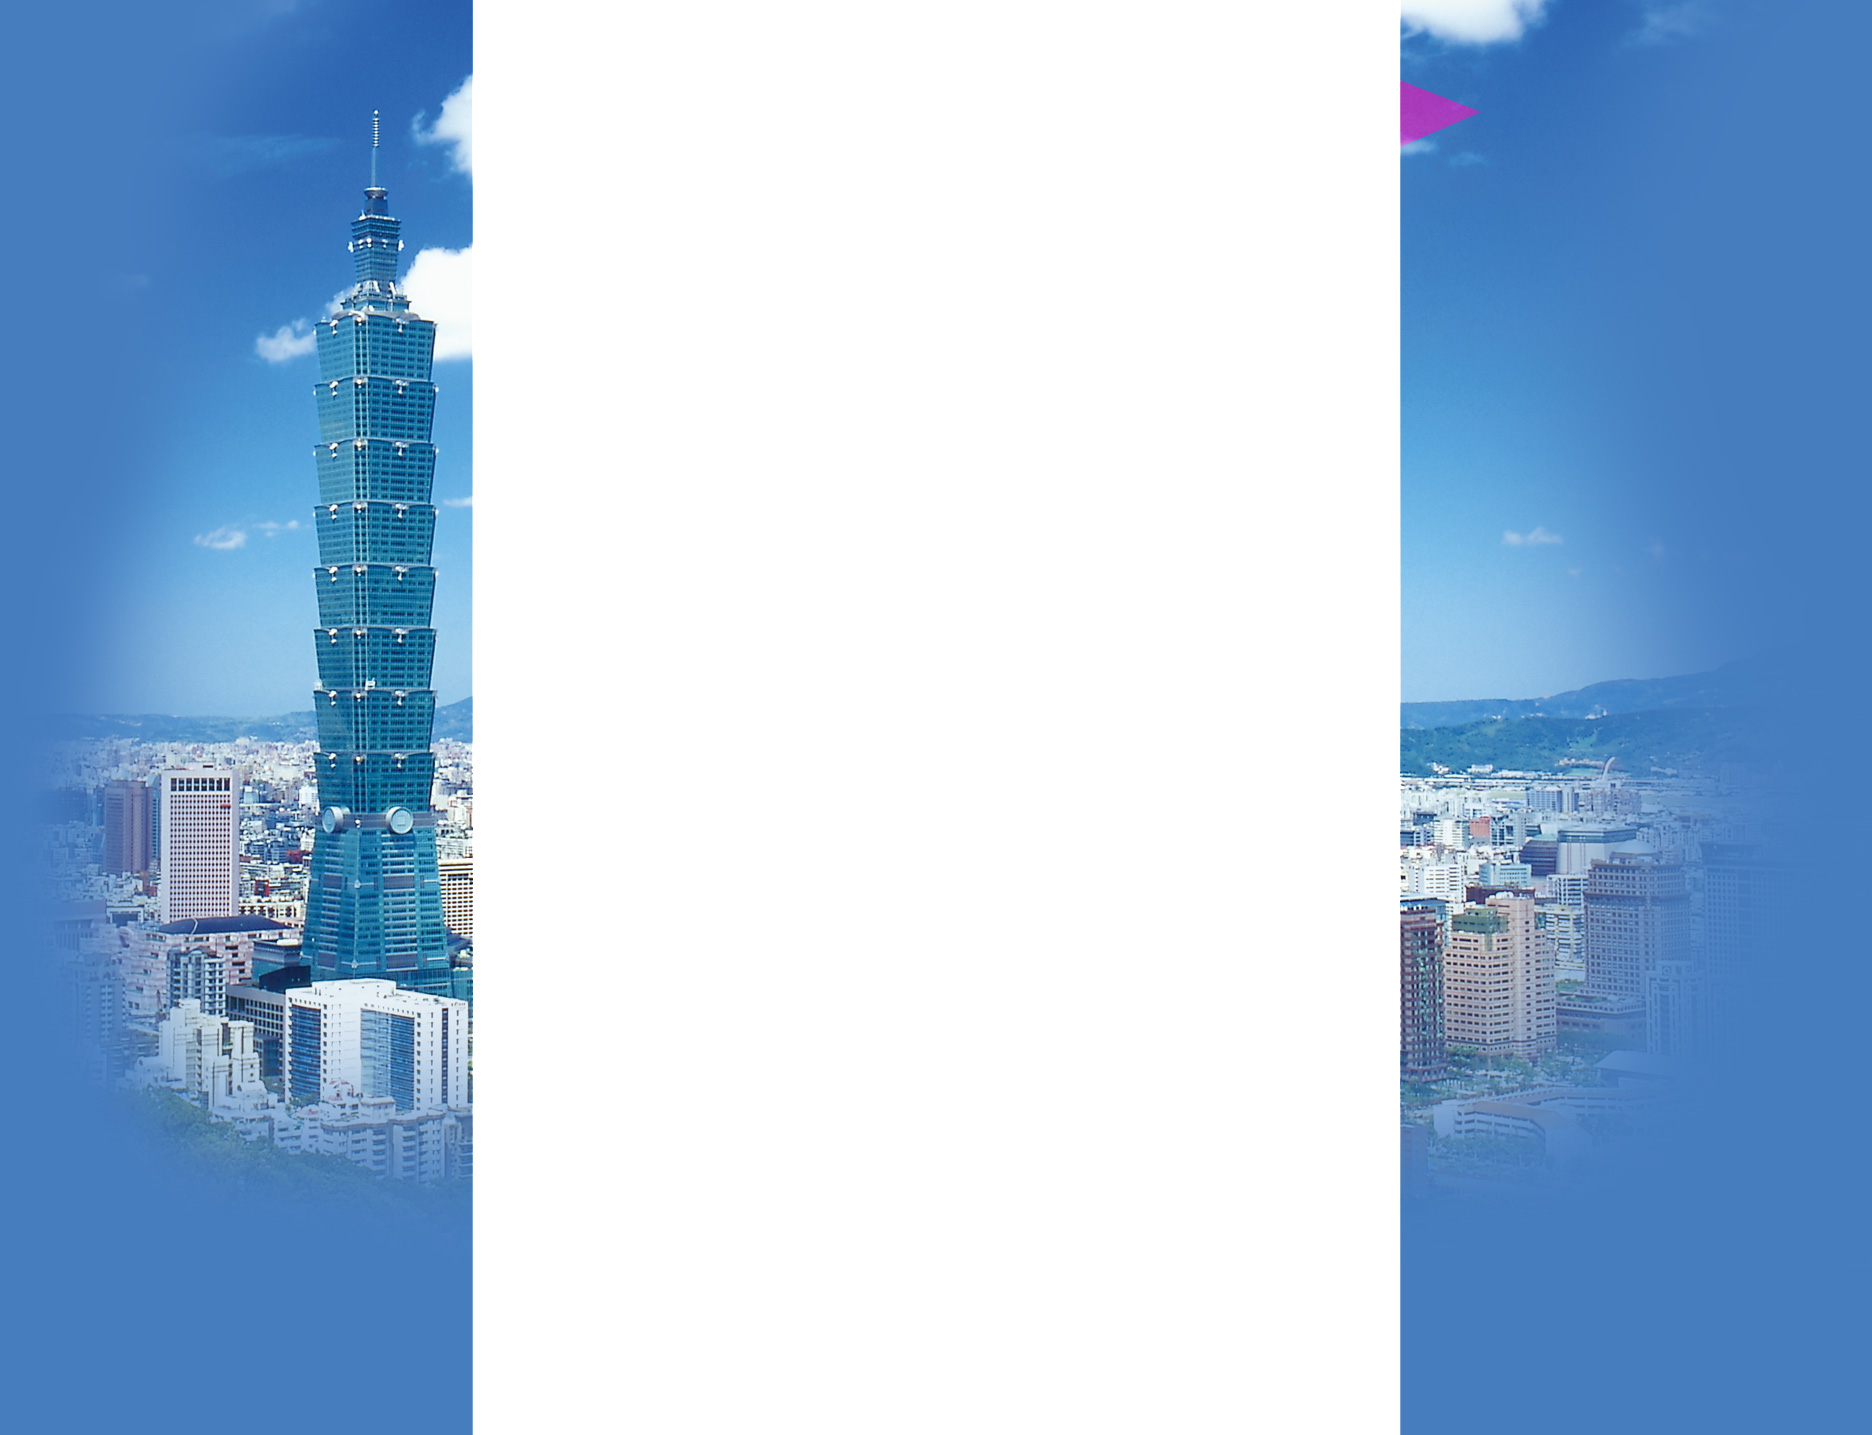
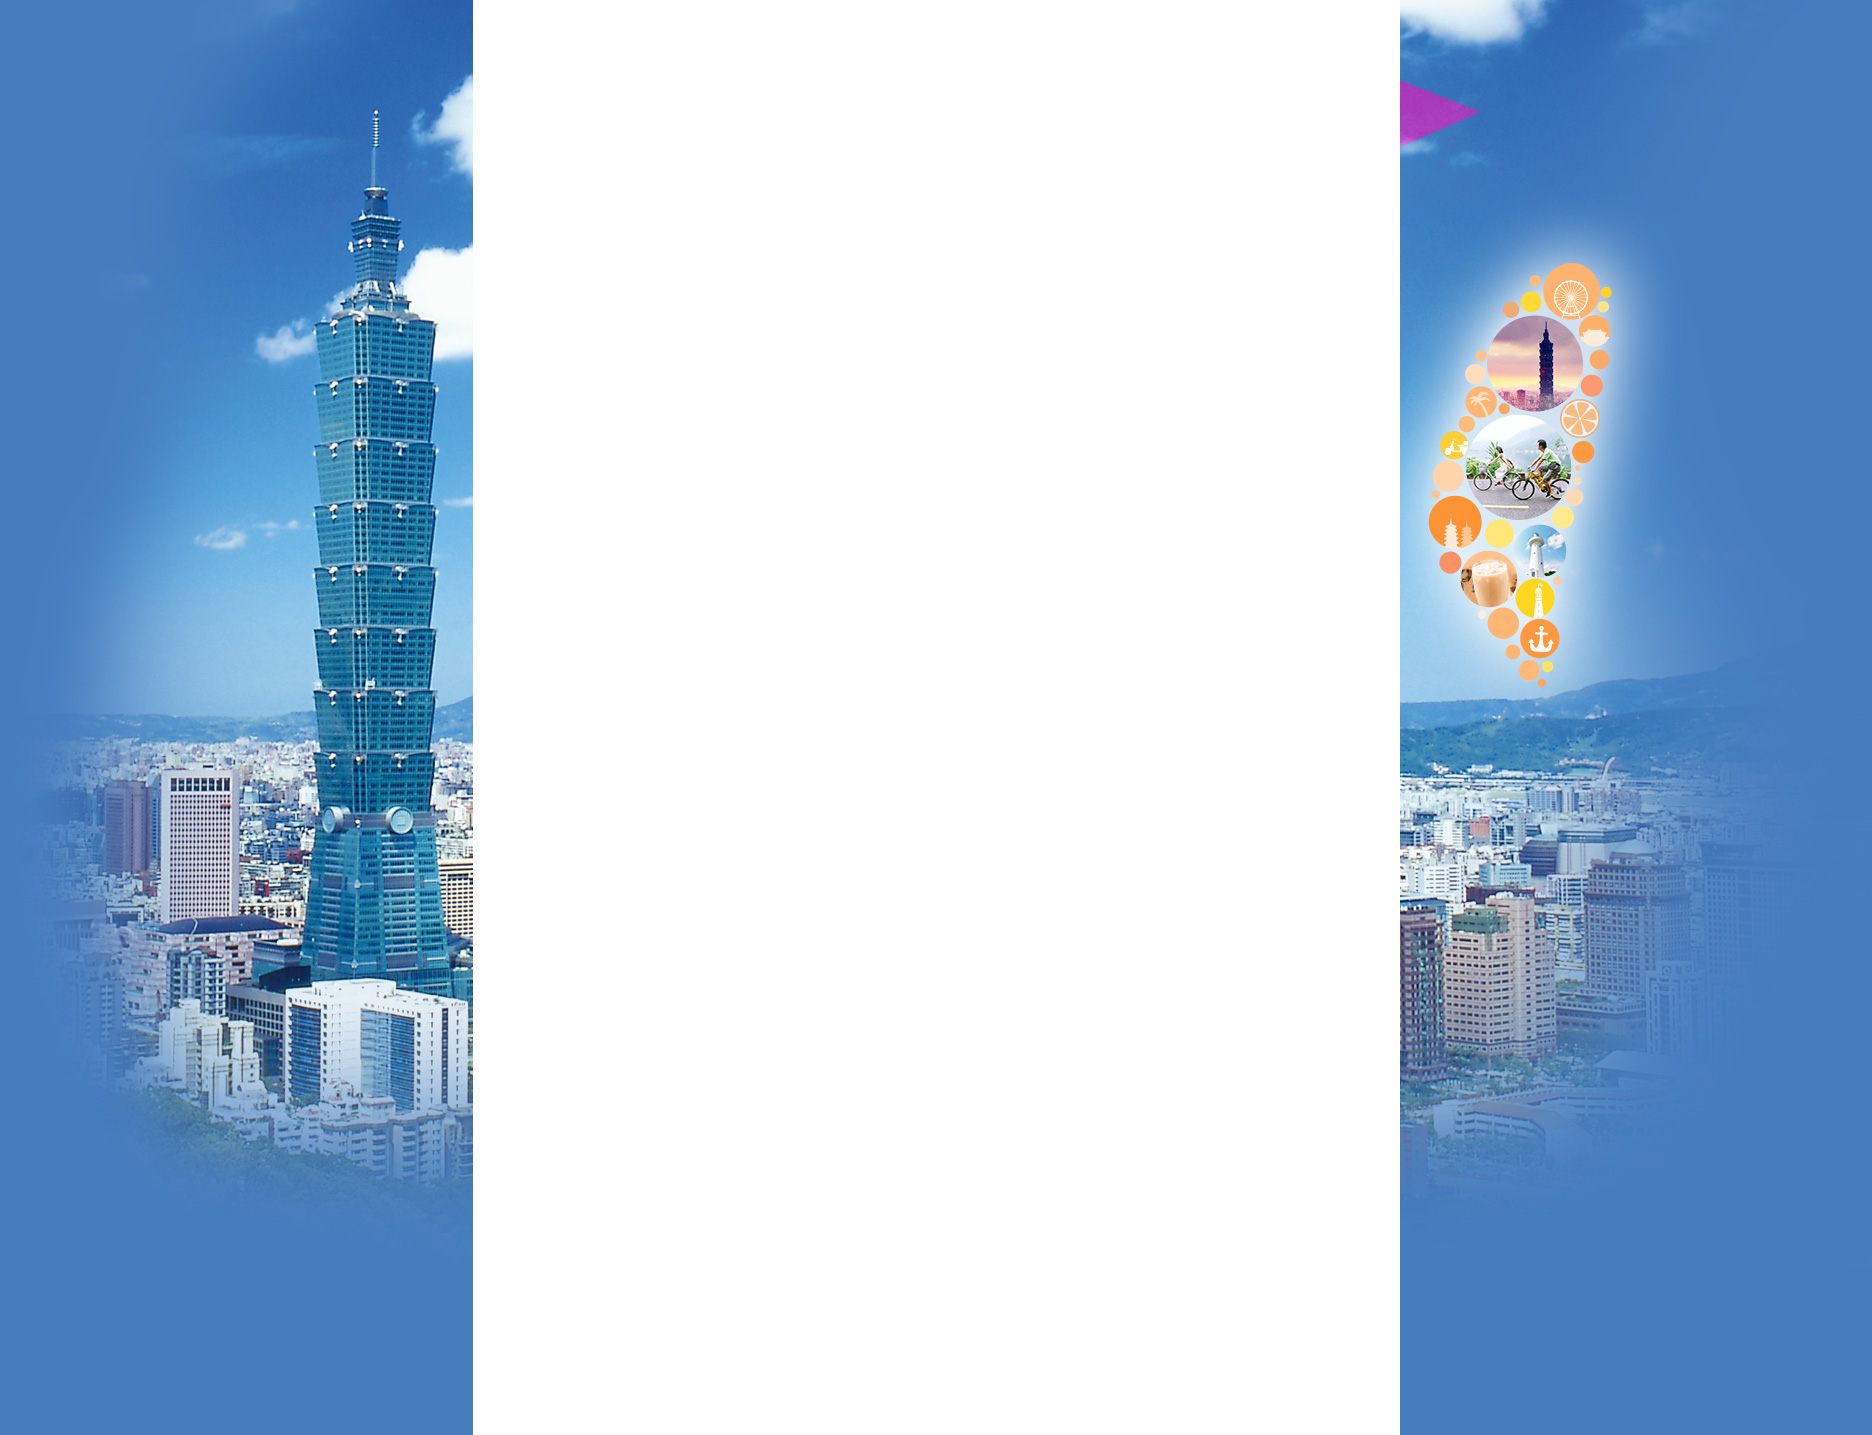
Signed-off-by: unknown <Zw@Zw-PC.(none)>

Changed region(s): [[0.7436, 0.1533, 0.8985, 0.4906]]

diff --git a/zhuanti/tw/index.html b/zhuanti/tw/index.html
@@ -18,6 +18,11 @@ body	{ background:url(images/bg.jpg) top center no-repeat #467dbf;}
 #boxs	{ width:950px; margin:0 auto;}
 .cbs_a	{ float:left;}
 .cbs_b	{ width:900px; border-top:#FFFFFF 1px solid; margin:20px 25px; display:inline; line-height:50px; font-size:12px; color:#FFFFFF; text-align:center; float:left;}
+.cbs_c	{ width:595px; float:left;}
+.cbs_d	{ width:355px; float:left;}
+.cbs_e	{ width:175px; float:left;}
+.cbs_f	{ width:180px; float:left;}
+.cbs_g	{ float:left;}
 </style>
 </head>
 
@@ -26,7 +31,25 @@ body	{ background:url(images/bg.jpg) top center no-repeat #467dbf;}
 	<div class="cbs_a"><img class="thumb" src="js/loading.gif" data-url="images/index_02.jpg" width="950" height="150" alt=""></div>
     <div class="cbs_a"><img class="thumb" src="js/loading.gif" data-url="images/index_05.jpg" width="950" height="153" alt=""></div>
   <div class="cbs_a"><img class="thumb" src="js/loading.gif" data-url="images/index_08.jpg" width="950" height="114" alt=""></div>
-  <div class="cbs_a"><a href="http://www.gulianlvyou.com/gulian/cjy/2013/0808/463.html" target="_blank"><img class="thumb" src="js/loading.gif" data-url="images/index_11.jpg" width="950" height="280" alt=""></a></div>
+
+  <div class="cbs_a">
+  	<div class="cbs_c"><img class="thumb" src="js/loading.gif" data-url="images/index_60.jpg" width="595" height="280"></div>
+    <div class="cbs_d">
+    	<div class="cbs_e">
+            <div class="cbs_g"><a href="http://www.gulianlvyou.com/gulian/cjy/2013/0808/463.html" target="_blank"><img class="thumb" src="js/loading.gif" data-url="images/index_80_01.jpg" width="175" height="111"></a></div>
+            <div class="cbs_g"><a href="http://www.gulianlvyou.com/gulian/cjy/2013/0808/465.html" target="_blank"><img class="thumb" src="js/loading.gif" data-url="images/index_80_03.jpg" width="175" height="46"></a></div>
+            <div class="cbs_g"><a href="http://www.gulianlvyou.com/gulian/cjy/2013/0808/465.html" target="_blank"><img class="thumb" src="js/loading.gif" data-url="images/index_80_05.jpg" width="175" height="49"></a></div>
+            <div class="cbs_g"><a href="http://www.gulianlvyou.com/gulian/cjy/2013/0808/463.html" target="_blank"><img class="thumb" src="js/loading.gif" data-url="images/index_80_07.jpg" width="175" height="74"></a></div>
+        </div>
+        <div class="cbs_f">
+      		<div class="cbs_g"><a href="http://www.gulianlvyou.com/gulian/cjy/2013/0808/464.html" target="_blank"><img class="thumb" src="js/loading.gif" data-url="images/index_80_02.jpg" width="180" height="134"></a></div>
+            <div class="cbs_g"><a href="http://www.gulianlvyou.com/gulian/cjy/2013/0808/464.html" target="_blank"><img class="thumb" src="js/loading.gif" data-url="images/index_80_04.jpg" width="180" height="49"></a></div>
+            <div class="cbs_g"><a href="http://www.gulianlvyou.com/gulian/cjy/2013/0808/463.html" target="_blank"><img class="thumb" src="js/loading.gif" data-url="images/index_80_06.jpg" width="180" height="46"></a></div>        
+            <div class="cbs_g"><a href="http://www.gulianlvyou.com/gulian/cjy/2013/0808/465.html" target="_blank"><img class="thumb" src="js/loading.gif" data-url="images/index_80_08.jpg" width="180" height="51"></a></div>
+        </div>
+    </div>
+  </div>
+  
   <div class="cbs_a"><img class="thumb" src="js/loading.gif" data-url="images/index_14.jpg" width="950" height="153" alt=""></div>
   <div class="cbs_a"><img class="thumb" src="js/loading.gif" data-url="images/index_17.jpg" width="950" height="153" alt=""></div>
   <div class="cbs_a"><img class="thumb" src="js/loading.gif" data-url="images/index_20.jpg" width="950" height="126" alt=""></div>
